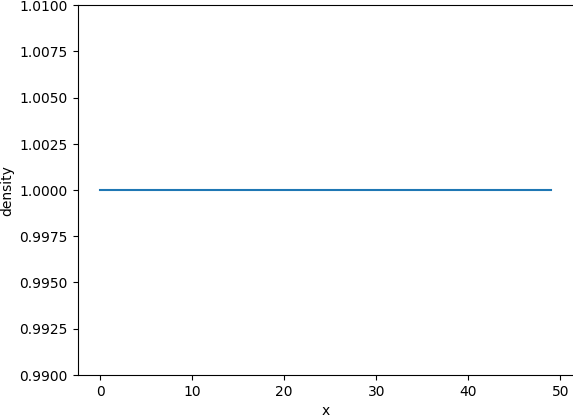
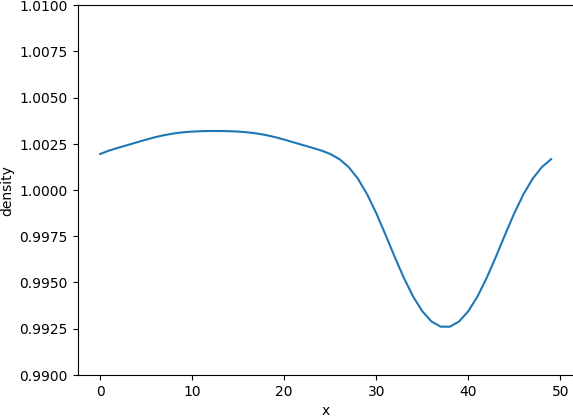
Add code

diff --git a/plot.py b/plot.py
@@ -1,6 +1,8 @@
 import os
 from matplotlib import pyplot as plt
 import numpy as np
+from scipy.optimize import curve_fit
+from scipy.signal import argrelextrema
 
 PATH="results"
 
@@ -21,17 +23,19 @@ class Plotter:
         pass
 
     def plot_shear_wave(self, velocities, rho, p0, step, epsilon, nx, ny, experiment):
+        
         if experiment == "density":
             self.q.append(np.max(np.abs(rho - p0)))
         else:
             self.q.append(np.max(np.abs(velocities[1,:, :])))
 
-          
+        if(step % 200 != 0):
+            return
+        
         if experiment == "density":
             self.axes[0].cla()
             self.axes[0].set_ylim([-epsilon + p0, epsilon + p0])
-            print(rho[:,ny//2])
-            self.axes[0].plot(np.arange(nx), rho[:,ny//2])
+            self.axes[0].plot(np.arange(nx), rho[ny//2,:])
             self.axes[0].set_xlabel('x')
             self.axes[0].set_ylabel('density')
             save_path = os.path.join(self.density_path, f'density_decay_{step}.png')
@@ -45,8 +49,20 @@ class Plotter:
             save_path = os.path.join(self.velocity_path, f'shear_wave_{step}.png')
             self.figs[0].savefig(save_path, bbox_inches='tight', pad_inches=0)
 
-       
-
+     
+    def return_viscosity(self, x, epsilon, omega, steps, experiment):
+        if experiment == 'density':
+            self.q = np.array(self.q)
+            x = argrelextrema(self.q, np.greater)[0]
+            self.q = self.q[x]
+        else:
+            x = np.arange(steps)
+      
+        coef = 2 * np.pi / 50
+        simulated_viscosity = curve_fit(lambda t, visc: epsilon * np.exp(-visc * t * coef ** 2), xdata=x, ydata=self.q)[0][0]
+        analytical_viscosity = (1/3) * ((1/omega) - 0.5)
+        
+        return simulated_viscosity, analytical_viscosity
     def close(self):
         plt.close(self.fig)
         plt.close(self.fig2)

diff --git a/shearWave.py b/shearWave.py
@@ -1,6 +1,10 @@
+import os
+from matplotlib import pyplot as plt
 import numpy as np
 from lb import LatticeBoltzmann
 from plot import Plotter
+from scipy.optimize import curve_fit
+from scipy.signal import argrelextrema
 
 def shear_wave_sim(experiment, nx: int = 50, ny: int = 50, omega: float = 1.0, epsilon: float = 0.01,
                           steps: int = 2000, p0: float = 1.0):
@@ -32,10 +36,32 @@ def shear_wave_sim(experiment, nx: int = 50, ny: int = 50, omega: float = 1.0, e
 
     for(step) in range(steps):
         latticeBoltzmann.tick()   
-        if(step % 200 == 0):
-            rho, velocities = latticeBoltzmann.output()
-            plotter.plot_shear_wave(velocities, rho, p0, step, epsilon, nx, ny, experiment)
-    print("Finished simulation")
+        #if(step % 200 == 0):
+        rho, velocities = latticeBoltzmann.output()
+        plotter.plot_shear_wave(velocities, rho, p0, step, epsilon, nx, ny, experiment)
+   
+    return plotter.return_viscosity(x, epsilon, omega, steps, experiment)
+    
 
+ws = np.arange(0.1, 2.01, 0.1)
 
-shear_wave_sim("density")
+       
+        
+simulated_viscosities = []
+analytical_viscosities = []
+for w in ws:
+    simulated_viscosity, analytical_viscosity = shear_wave_sim(omega=w, experiment='density')
+    simulated_viscosities.append(simulated_viscosity)
+    analytical_viscosities.append(analytical_viscosity)
+        
+plt.cla()
+plt.scatter(ws, np.log(simulated_viscosities), marker='x')
+plt.scatter(ws, np.log(analytical_viscosities), marker='x')
+plt.xlabel('w')
+plt.ylabel('Log(Viscosity)')
+plt.legend(['Simulated', 'Analytical'])
+common_path = os.path.join('results', 'shear_decay')
+os.makedirs(common_path, exist_ok=True)
+path = os.path.join(common_path, f'viscosity_gjgj.png')
+plt.savefig(path, bbox_inches='tight', pad_inches=0)
+    

diff --git a/couette_flow.py b/couette_flow.py
@@ -23,10 +23,6 @@ def couette_flow_sim(nx: int = 100, ny: int = 100, omega: float = 0.6, epsilon: 
 
 
     latticeBoltzmann = LatticeBoltzmann(rho, omega, velocities)
-    latticeBoltzmann.add_boundary(boundaries.RigidWall)
-    latticeBoltzmann.add_boundary("bottom", "bounce_back")
-    latticeBoltzmann.add_boundary("left", "moving_wall", 0.1)
-    latticeBoltzmann.add_boundary("right", "moving_wall", 0.1)
     plotter = Plotter()
 
     for(step) in range(steps):
